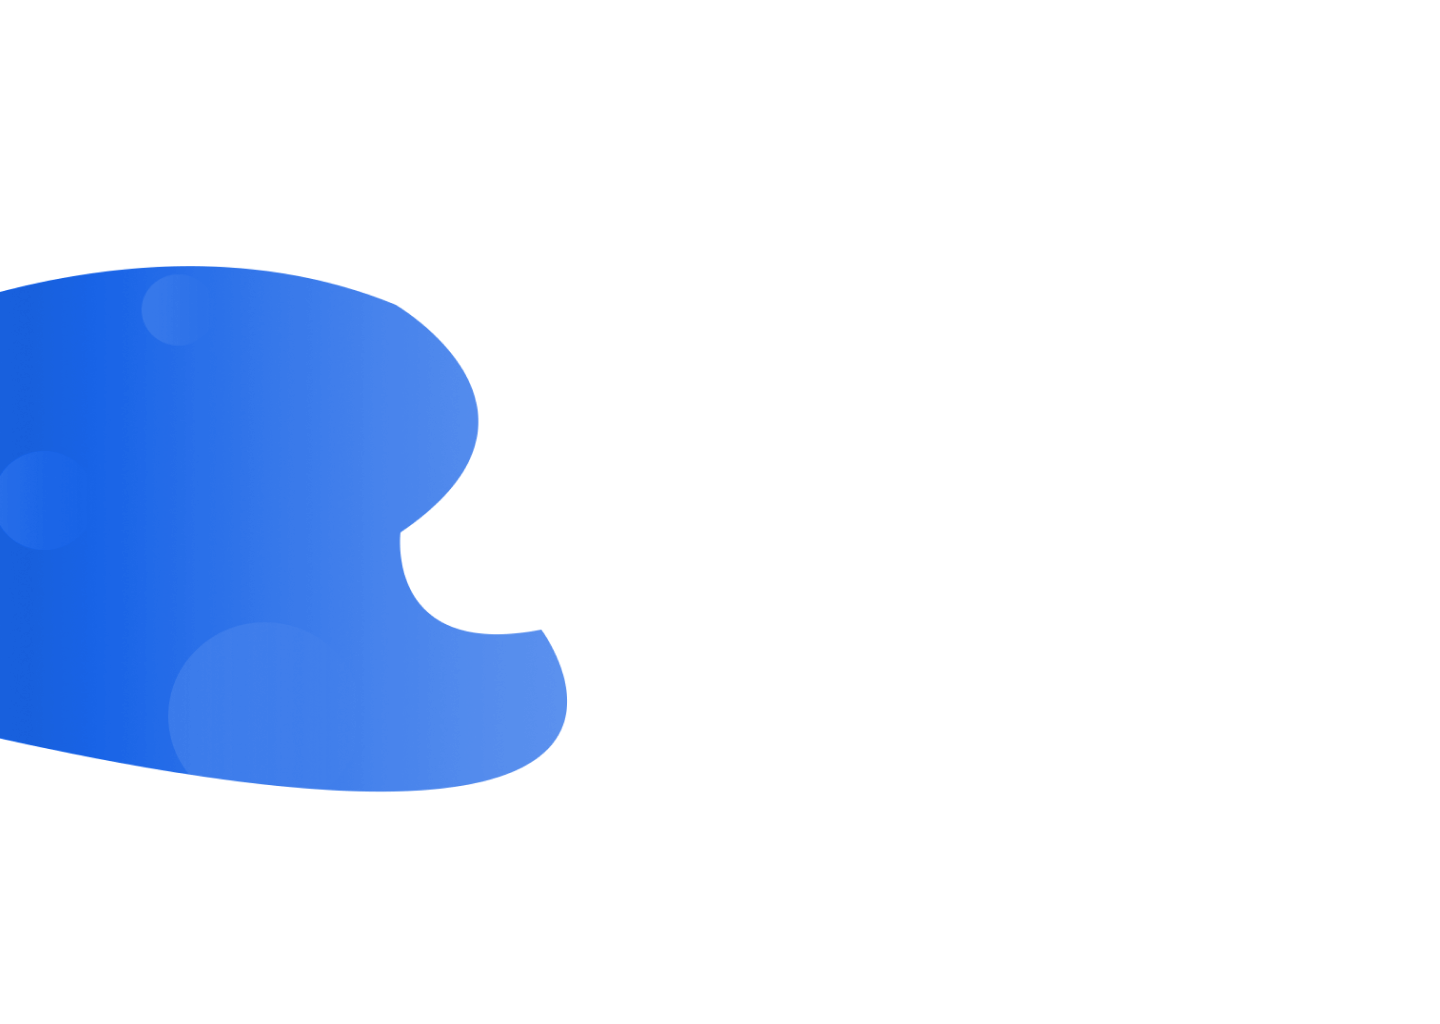
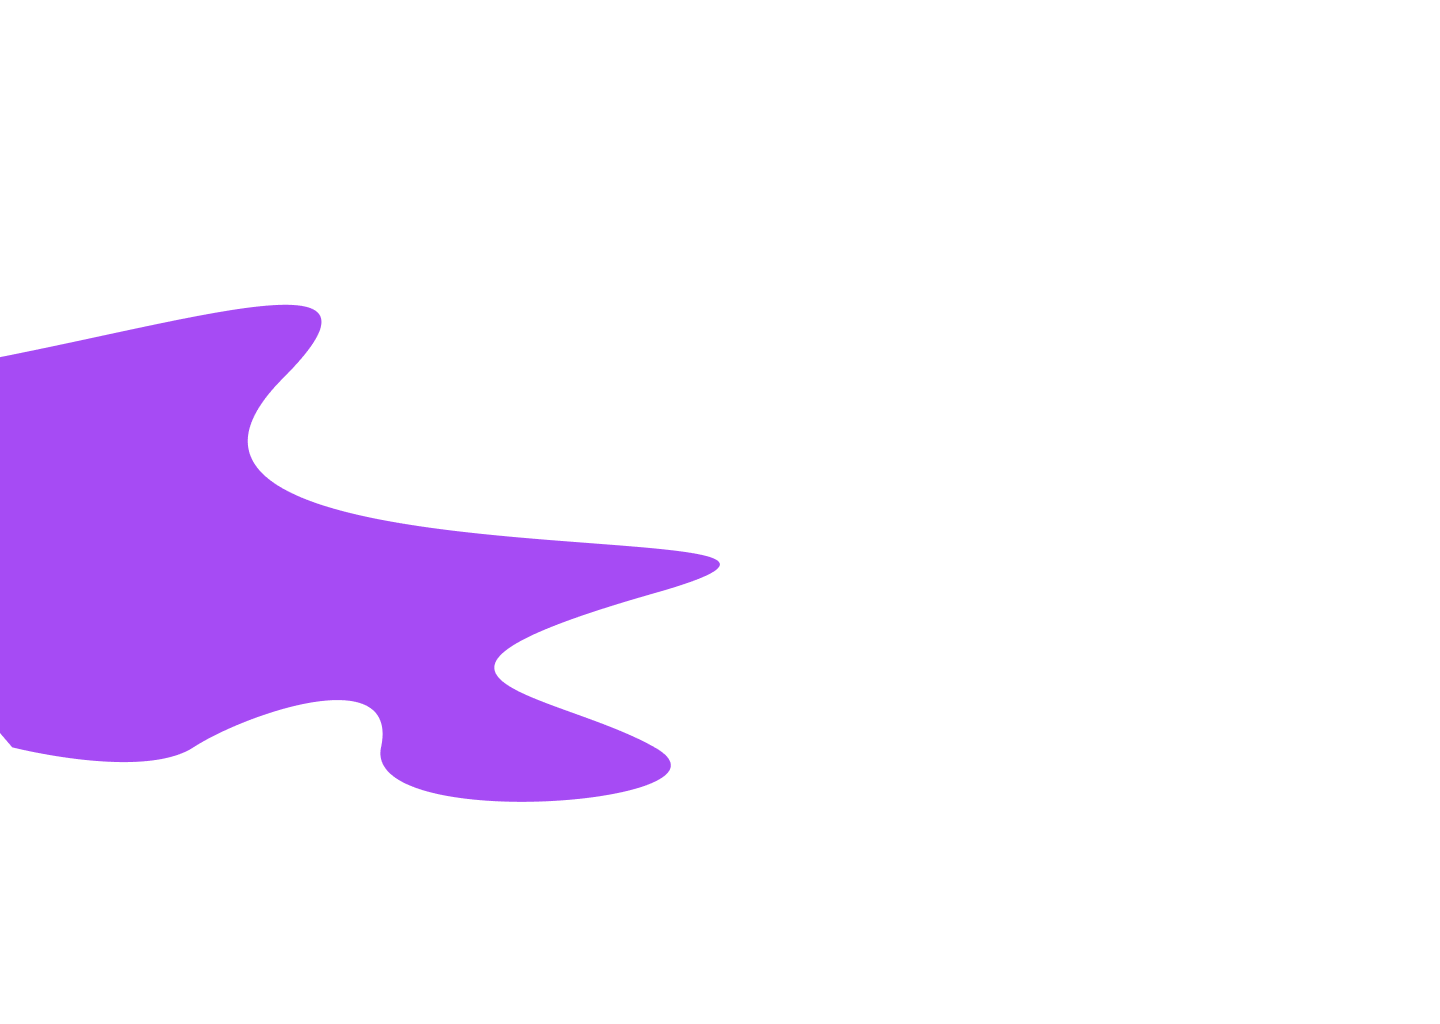
adjust home page UI

Changed region(s): [[0.0, 0.25, 0.5, 0.7812]]

diff --git a/src/scss/_variables.scss b/src/scss/_variables.scss
@@ -1,7 +1,7 @@
-$blue-color: blue;
+$blue-color: #a64bf4;
 $white-color: #ffffff;
-$strong-blue: #396edd;
-$blue-light: #58aeff;
+$strong-blue: #842cd0;
+$blue-light: #ad61f0;
 $light-grey: #e8eaef;
 $thumbnail-text: #87929e;
 $light-grey: #f4f5f7;
@@ -14,8 +14,8 @@ $grey-300: #e1e4ea;
 $blue-1f4: #1f4060;
 $grey-400: #e8eaef;
 $neutral-500: #72808e;
-$base-color: #0068ff;
-$blue-zelo: #4c92ff;
+$base-color: #9243d6;
+$blue-zelo: #a64bf4;
 $silver: #b3bbc8;
 $blue-700: #e5efff;
 $grey-500: #eeeff2;
